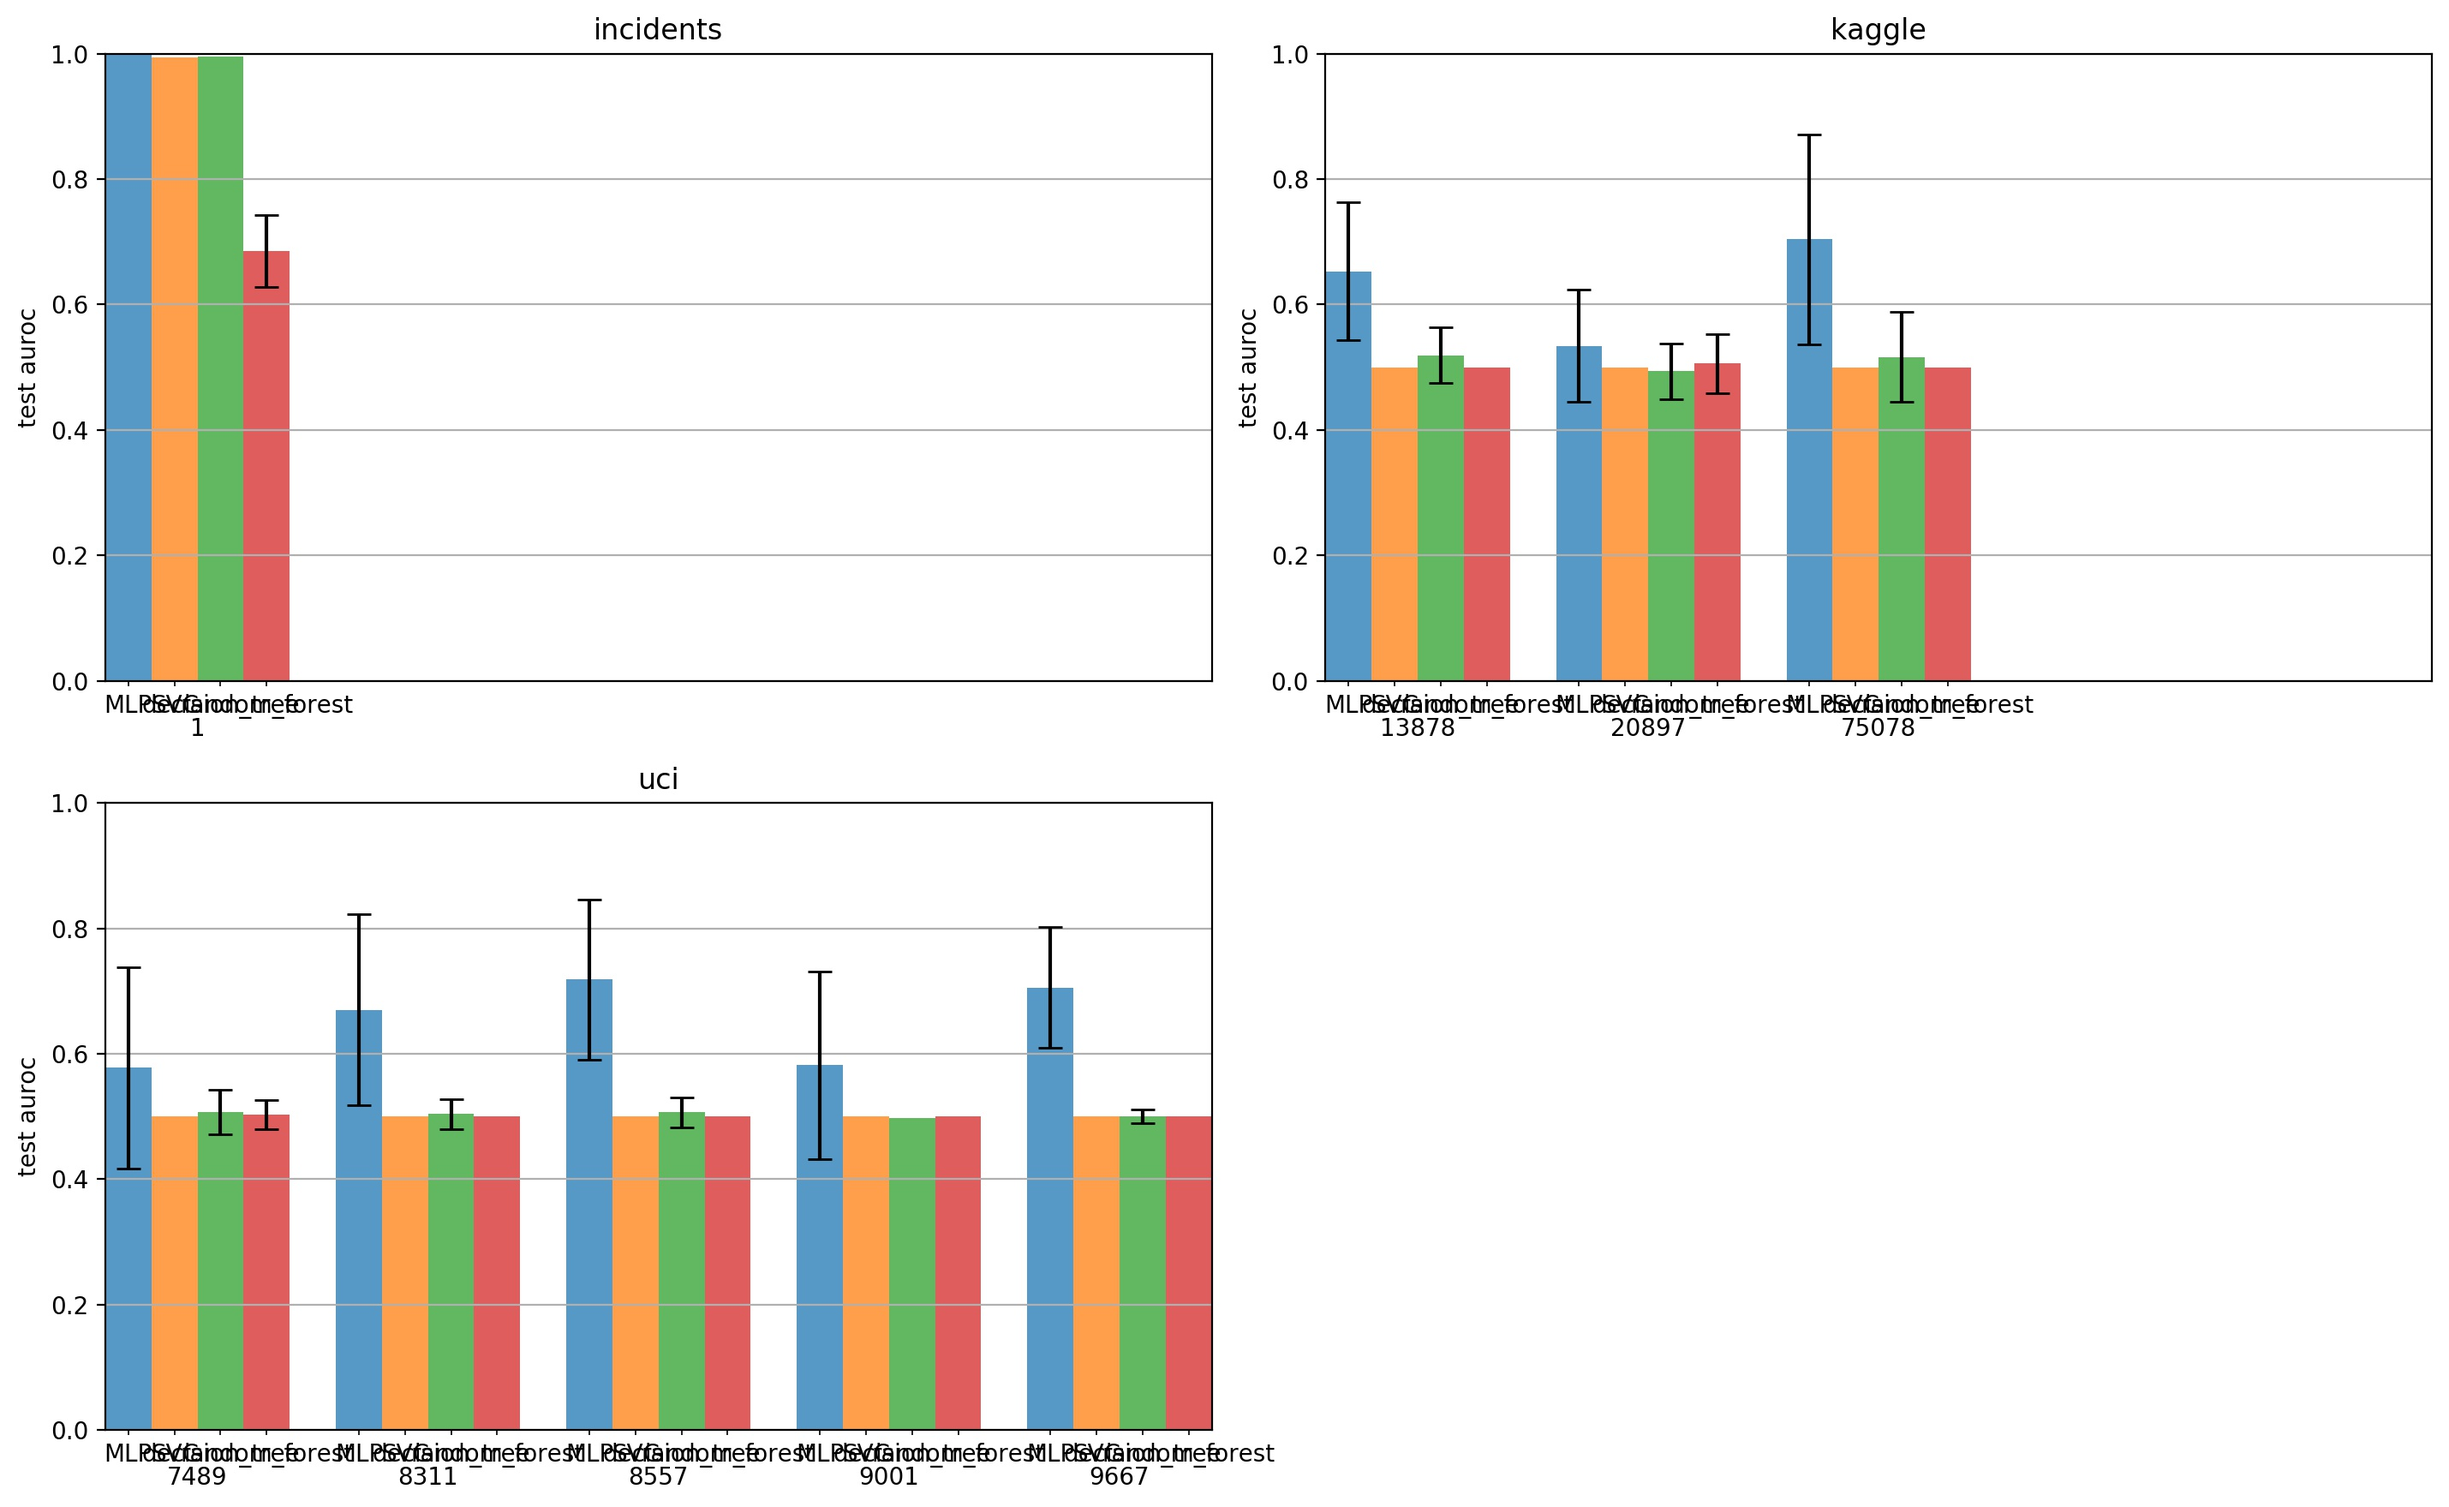
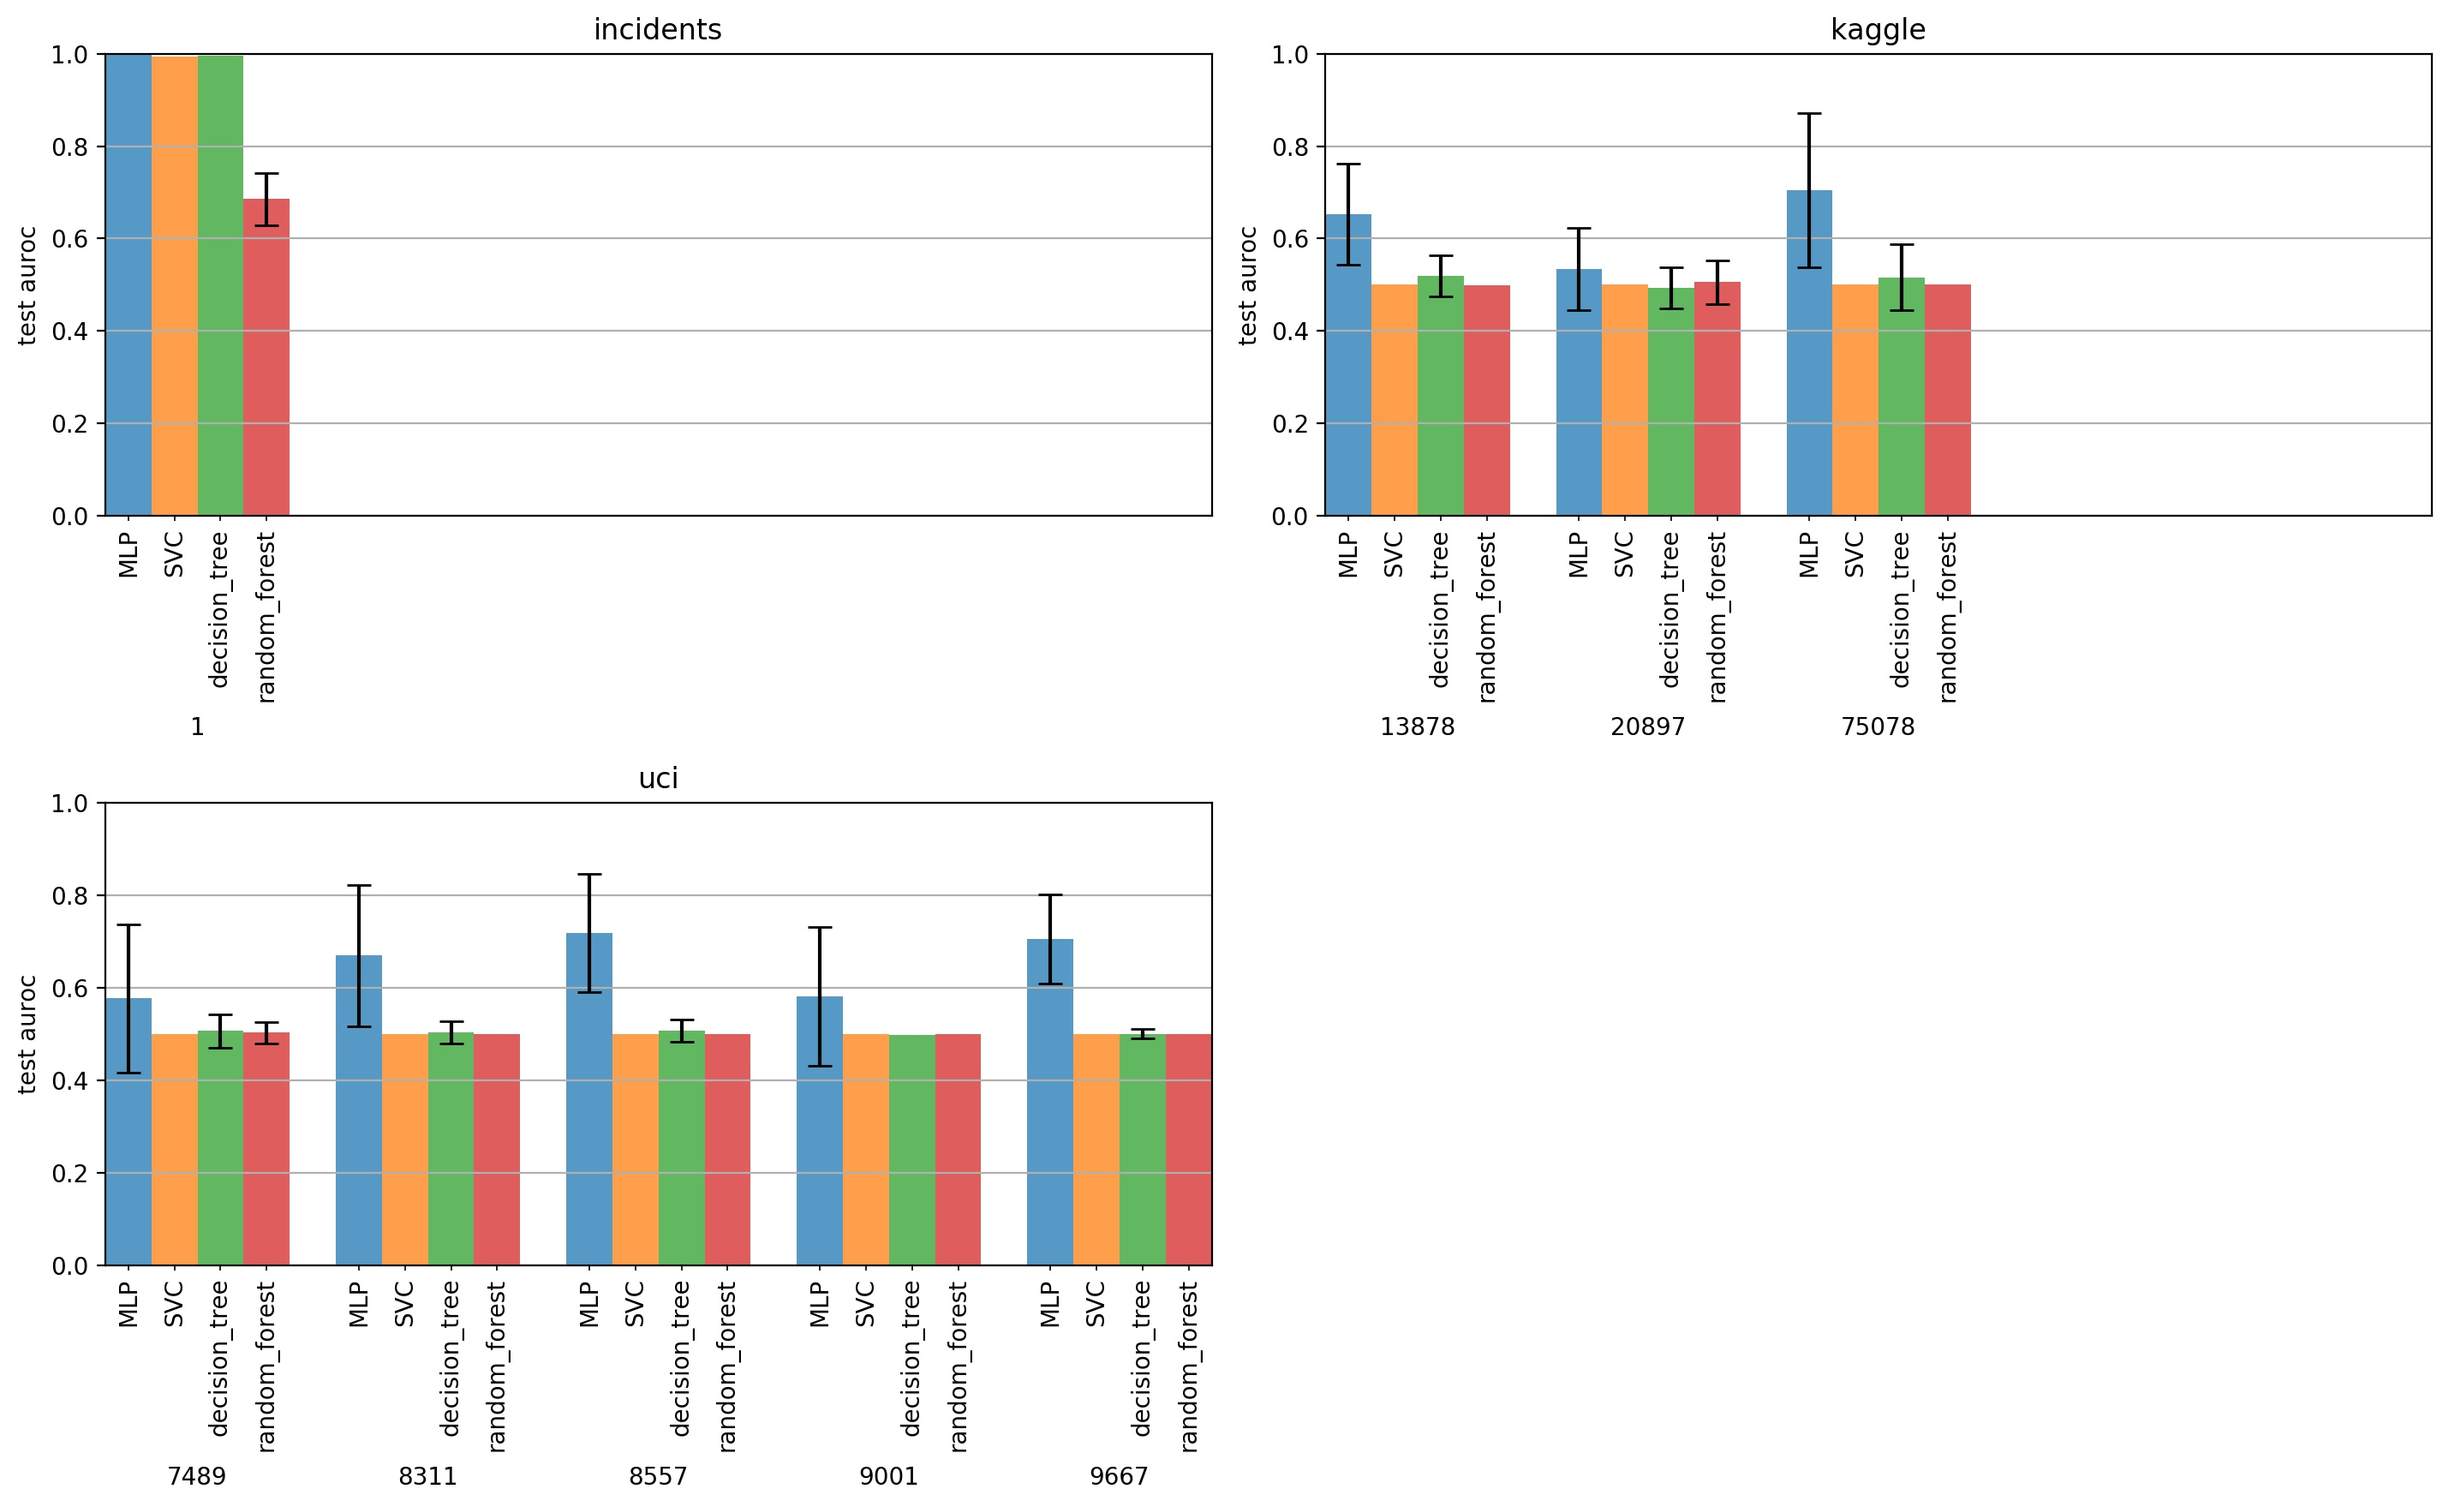
Introduced automatic rotation when labels are too long

diff --git a/histograms/utils/plot_bar_labels.py b/histograms/utils/plot_bar_labels.py
@@ -2,9 +2,19 @@ from matplotlib.axes import Axes
 from matplotlib.figure import Figure
 from .text_positions import text_positions
 import pandas as pd
+from typing import Union
 
 
-def plot_bar_labels(axes:Axes, figure:Figure, df:pd.DataFrame, vertical:bool, levels:int, bar_width:float):
+def plot_bar_labels(
+    axes:Axes,
+    figure:Figure,
+    df:pd.DataFrame,
+    vertical:bool,
+    levels:int,
+    bar_width:float,
+    minor_rotation:Union[str, float],
+    major_rotation:float
+):
     other_positions = set()
     for level in reversed(range(max(levels-2, 0), levels)):
         positions, labels = zip(*text_positions(df, bar_width, level))
@@ -21,6 +31,14 @@ def plot_bar_labels(axes:Axes, figure:Figure, df:pd.DataFrame, vertical:bool, le
             axes.set_xticks(positions, minor=minor)
             labels = axes.set_xticklabels(labels, minor=minor)
             if minor:
+                if minor_rotation=="auto" and any(len(label.get_text()) > 3 for label in labels):
+                    minor_rotation = 90
+                if minor_rotation != "auto":
+                    axes.tick_params(
+                        axis='x',
+                        which='minor',
+                        labelrotation=minor_rotation
+                    )
                 axes.tick_params(
                     axis='x',
                     which='major',
@@ -29,12 +47,19 @@ def plot_bar_labels(axes:Axes, figure:Figure, df:pd.DataFrame, vertical:bool, le
                         label.get_window_extent(figure.canvas.get_renderer()).height
                         for label in labels
                     )/2.5,
-                    width=0
+                    width=0,
+                    labelrotation=major_rotation
                 )
         else:
             axes.set_yticks(positions, minor=minor)
             labels = axes.set_yticklabels(labels, minor=minor)
             if minor:
+                if minor_rotation != "auto":
+                    axes.tick_params(
+                        axis='x',
+                        which='minor',
+                        labelrotation=minor_rotation
+                    )
                 axes.tick_params(
                     axis='y',
                     which='major',
@@ -43,5 +68,7 @@ def plot_bar_labels(axes:Axes, figure:Figure, df:pd.DataFrame, vertical:bool, le
                         label.get_window_extent(figure.canvas.get_renderer()).width
                         for label in labels
                     )/2.5,
-                    width=0
+                    width=0,
+                    labelrotation=major_rotation
                 )
+                

diff --git a/histograms/histogram.py b/histograms/histogram.py
@@ -27,7 +27,9 @@ def histogram(
     orientation: str = "vertical",
     subplots: bool = False,
     plots_per_row: Union[int, str] = "auto",
-    humanize_time_features: bool = True
+    humanize_time_features: bool = True,
+    minor_rotation:Union[str, float]="auto",
+    major_rotation:float=0
 ) -> Tuple[Figure, Axes]:
     """Plot histogram corresponding to given dataframe, containing y value and optionally std.
 
@@ -115,7 +117,9 @@ def histogram(
             sub_df,
             vertical,
             len(levels) - int(show_legend) - int(subplots),
-            bar_width
+            bar_width,
+            minor_rotation,
+            major_rotation
         )
 
         if any(e is not None and "time" in e for e in (path, title)):
